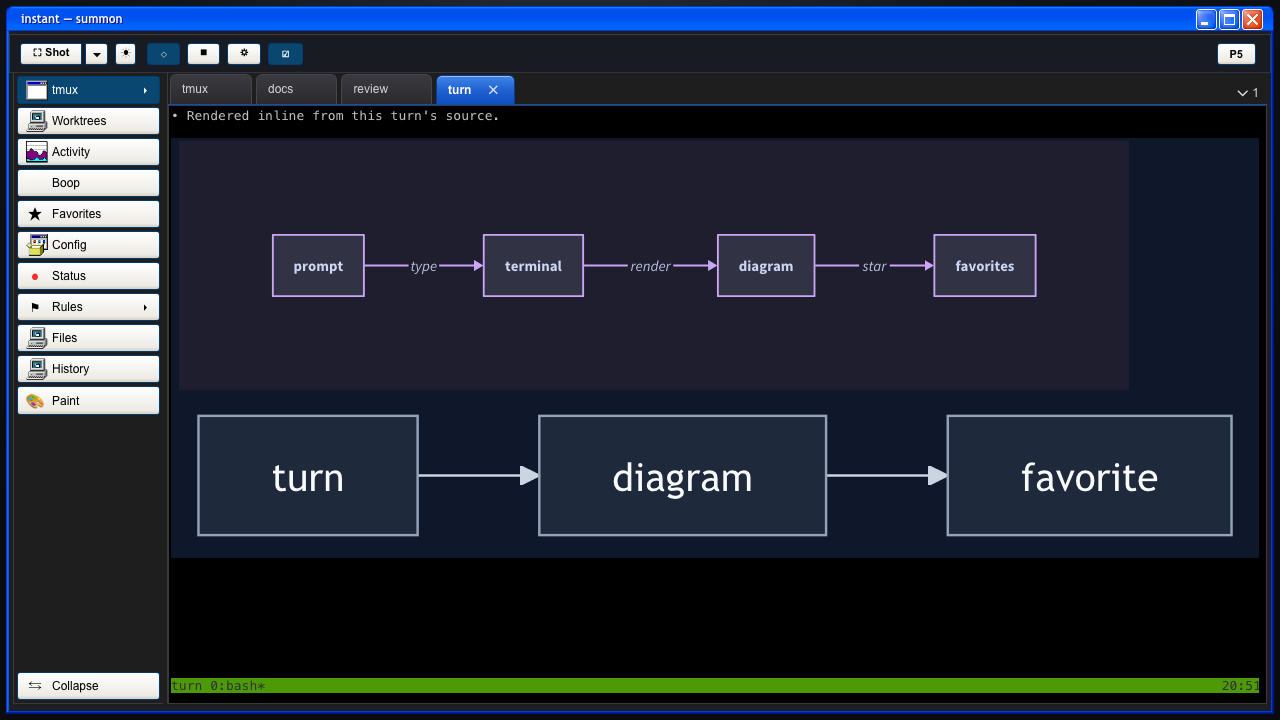
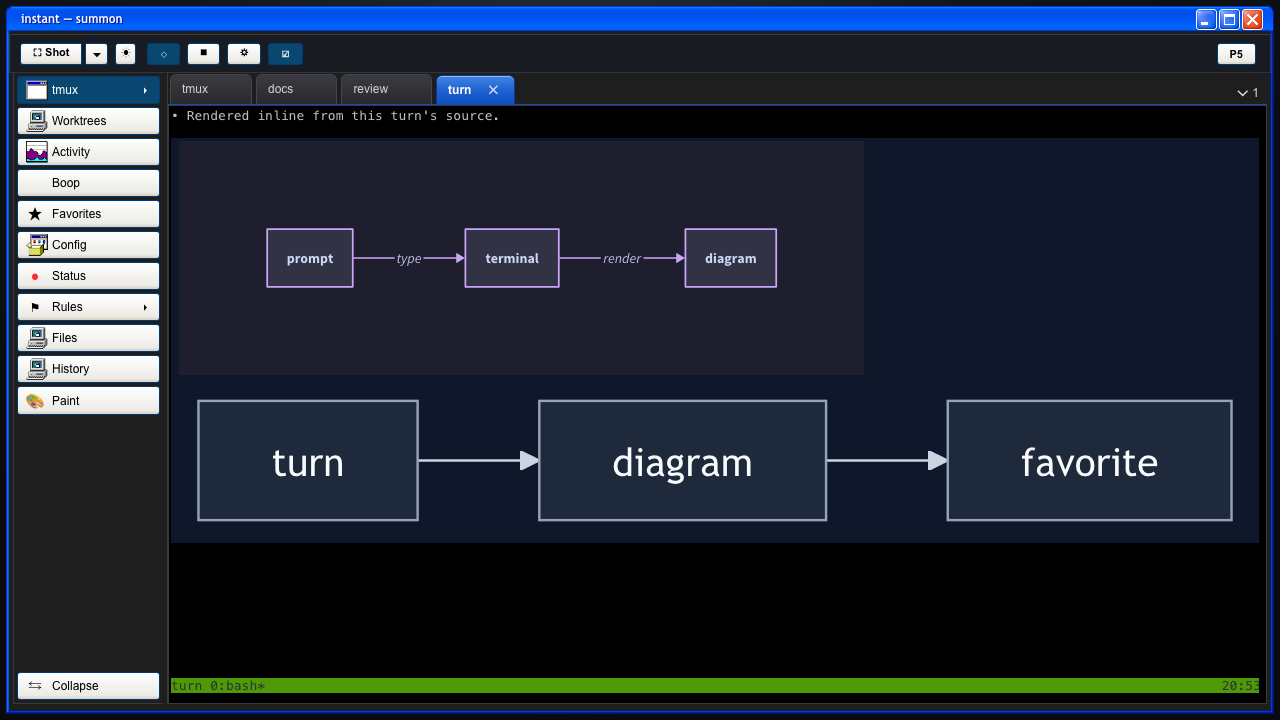
Fix README prereqs and shrink the inline D2 fixture

diff --git a/e2e-real/readme-screenshots.spec.ts b/e2e-real/readme-screenshots.spec.ts
@@ -259,7 +259,6 @@ const turnBody = [
   "  direction: right",
   `  ${D2_MARKER}`,
   "  terminal -> diagram: render",
-  "  diagram -> favorites: star",
   "",
   // Blank rows let the overlay size the wide D2 graph past its four source
   // rows; the allocator only borrows rows that are actually blank.
@@ -289,7 +288,6 @@ const turnSaid = [
   "direction: right",
   D2_MARKER,
   "terminal -> diagram: render",
-  "diagram -> favorites: star",
   "```",
   "",
   "```mermaid",
@@ -388,8 +386,8 @@ test("1. workspace: inline D2 and Mermaid from a terminal turn", async ({ page }
   typeLine("review", "PS1=; clear; cat " + path.join(fixtures, "review.txt"));
 
   await showTurn(page);
-  await expect(page.locator('.term-diagram[data-language="d2"]')).toContainText("favorites");
-  await expect(page.locator('.term-diagram[data-language="mermaid"]')).toContainText("turn");
+  await expect(page.locator('.term-diagram[data-language="d2"]')).toContainText("terminal");
+  await expect(page.locator('.term-diagram[data-language="mermaid"]')).toContainText("favorite");
   await expect(page.locator('.term-diagram[data-language="d2"]')).toHaveAttribute("data-diagram-locator", `boop:${TURN_SESSION}:${TURN_ID}`);
   await page.waitForTimeout(700);
   await shot(page, "01-turn-diagrams");

diff --git a/README.md b/README.md
@@ -2,8 +2,8 @@
 
 A macOS summon-overlay terminal. Double-tap right-⌘ (or double right-click) and
 a frameless window drops in at your cursor, hosting tmux sessions that run AI CLI
-agents (claude, opencode, a plain shell). It lives in the menu bar, not the Dock,
-so it is one gesture away and gone again.
+agents (claude, opencode, codex, or a plain shell). It lives in the menu bar, not
+the Dock, so it is one gesture away and gone again.
 
 Built with Tauri 2 + TypeScript. The chrome is a retro skin (Windows XP Luna,
 Persona 5, Armored Core 3 garage), the layout is a VS Code-style dockview, and a
@@ -80,6 +80,9 @@ Highlights beyond the workflow above:
 
 - **Worktree hub.** Repo to checkout to git worktrees as a tree; add a worktree
   inline, open a session in it, or resume a session already in that path.
+- **Boop-backed favorites.** Right-click a turn and pick the star. The favorite is
+  keyed by `session:turn` and written to boop's store, so it survives reloads and
+  lists in the Favorites panel.
 - **Activity recorder.** An fzf-searchable timeline of session visits, browser
   events (via the bundled extension), file opens, and screen captures. Off by
   default; see Privacy.
@@ -91,10 +94,8 @@ Highlights beyond the workflow above:
 ## Requirements
 
 - macOS (CGEventTap, screencapture, and the menu bar are macOS-only).
-- Rust toolchain plus
-  [Tauri 2 prerequisites](https://v2.tauri.app/start/prerequisites/).
 - `tmux` on `PATH` (the Homebrew location is added automatically).
-- An agent CLI if you want one: `claude` and/or `opencode`.
+- An agent CLI if you want one: `claude`, `opencode`, and/or `codex`.
 - Permissions on first run: **Accessibility / Input Monitoring** (summon gesture,
   send-selection tap) and **Screen Recording** (the Shot button and capture).
 
@@ -113,6 +114,9 @@ is moved to a timestamped `.backup` sibling. macOS asks for Accessibility and
 Input Monitoring, then Screen Recording, when those features are first used.
 
 ## Develop
+
+Building from source needs the Rust toolchain plus
+[Tauri 2 prerequisites](https://v2.tauri.app/start/prerequisites/).
 
 ```sh
 corepack pnpm@10.12.4 install
